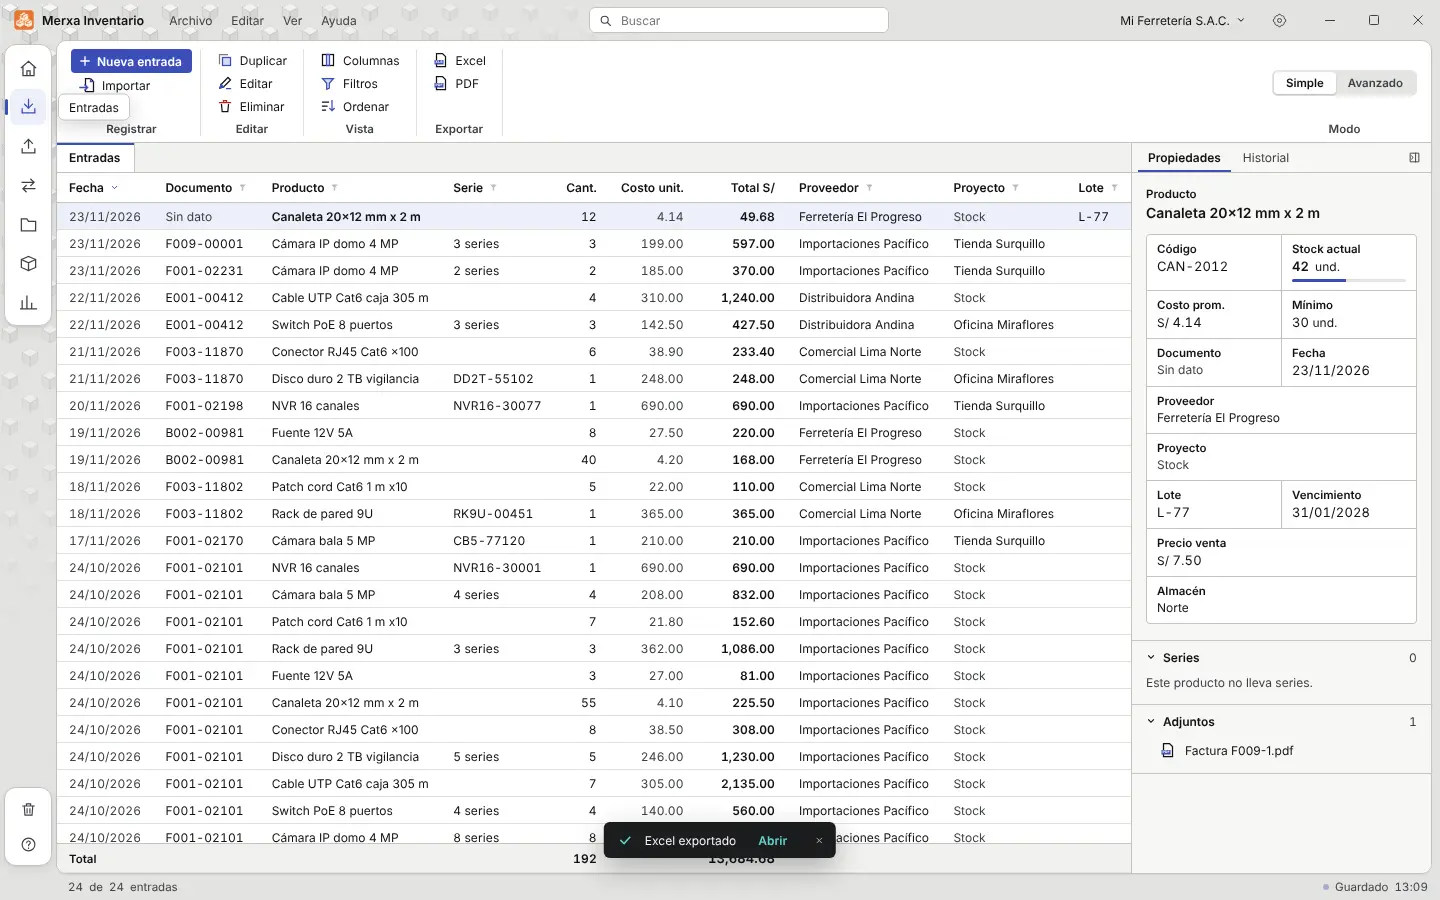
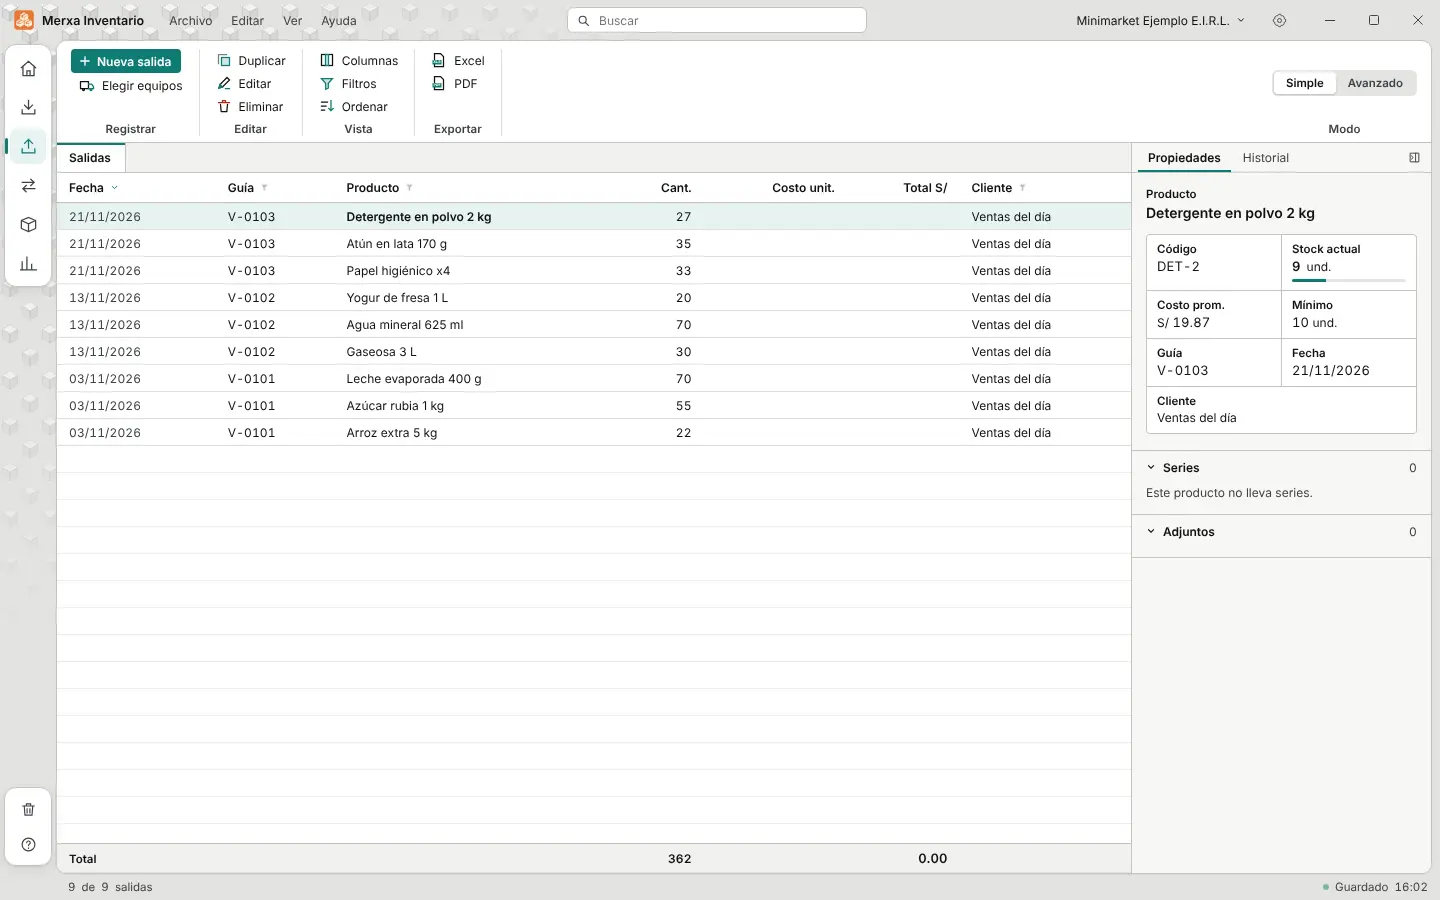
Capturas con datos de ejemplo (minimarket) y textos para tiendas
Claude-Session: https://claude.ai/code/session_01WovPf8QzYLVccTMfwPe5xL

diff --git a/index.html b/index.html
@@ -103,19 +103,19 @@ footer a { color: #fff; }
       </div>
       <div class="notas"><span>100% gratis</span><span>Funciona sin internet</span><span>Tus datos se quedan en tu PC</span><span>Exporta a Excel y PDF</span></div>
     </div>
-    <img class="captura" src="img/entradas.webp" alt="Pantalla de Entradas de Merxa Inventario con el formulario de nueva entrada" width="1440" height="900">
+    <img class="captura" src="img/entradas.webp" alt="Merxa Inventario: entradas de un minimarket con lote, vencimiento y el formulario de nueva entrada" width="1440" height="900">
   </div>
 </div>
 
 <section id="funciones">
   <div class="ancho">
     <h2>Todo lo que necesita tu almacén</h2>
-    <p class="sub">Hecho para ferreterías, distribuidoras, importadoras, talleres y cualquier negocio que mueve mercadería. Se ve y se usa como los programas de oficina que ya conoces.</p>
+    <p class="sub">Hecho para bodegas, minimarkets, tiendas, ferreterías, distribuidoras y cualquier negocio que compra y vende mercadería. Se ve y se usa como los programas de oficina que ya conoces.</p>
     <div class="grid">
       <div class="card c-n"><div class="ic">↓</div><h3>Entradas y salidas</h3><p>Registra compras, despachos y ajustes en segundos. Facturas, guías, proveedores y clientes en un solo lugar.</p></div>
       <div class="card c-v"><div class="ic">S/</div><h3>Stock y costo promedio</h3><p>Stock al día por producto, costo promedio automático, mínimos y valor total del inventario.</p></div>
-      <div class="card c-m"><div class="ic">#</div><h3>Series y lotes</h3><p>Sigue cada equipo por su número de serie, con lote, vencimiento y ubicación. Funciona con lector de código de barras.</p></div>
-      <div class="card c-v"><div class="ic">▣</div><h3>Proyectos y obras</h3><p>Reserva mercadería para cada proyecto, despacha por partes y mira cuánto falta entregar.</p></div>
+      <div class="card c-m"><div class="ic">#</div><h3>Lotes, vencimientos y series</h3><p>Controla lotes y fechas de vencimiento, y si vendes equipos, cada número de serie. Funciona con lector de código de barras.</p></div>
+      <div class="card c-v"><div class="ic">▣</div><h3>Pedidos y proyectos</h3><p>Si trabajas por pedido u obra, separa mercadería para cada uno y despacha por partes. Es opcional: lo activas solo si lo necesitas.</p></div>
       <div class="card c-m"><div class="ic">≡</div><h3>Reportes en Excel y PDF</h3><p>Kardex por producto, stock actual, movimientos entre fechas y por proyecto. Listos para imprimir o enviar.</p></div>
       <div class="card c-n"><div class="ic">⇪</div><h3>Importa tu Excel</h3><p>Trae tus productos y tu historial desde Excel. Merxa reconoce las columnas y te deja revisar antes de guardar.</p></div>
     </div>
@@ -124,7 +124,7 @@ footer a { color: #fff; }
 
 <section class="franja">
   <div class="ancho dos">
-    <img src="img/productos.webp" alt="Lista de productos con stock, mínimo, costo promedio y series en almacén" loading="lazy" width="1440" height="900">
+    <img src="img/productos.webp" alt="Lista de productos de un minimarket con stock, mínimo, costo promedio y precio de venta" loading="lazy" width="1440" height="900">
     <div>
       <h2>Tu información es tuya</h2>
       <ul class="lista">
@@ -149,7 +149,7 @@ footer a { color: #fff; }
         <li>Casillas propias en tus formularios: texto, lista o fecha.</li>
       </ul>
     </div>
-    <img src="img/claro.webp" alt="Merxa Inventario con tema claro" loading="lazy" width="1440" height="900">
+    <img src="img/claro.webp" alt="Salidas del día en Merxa Inventario con tema claro" loading="lazy" width="1440" height="900">
   </div>
 </section>
 
